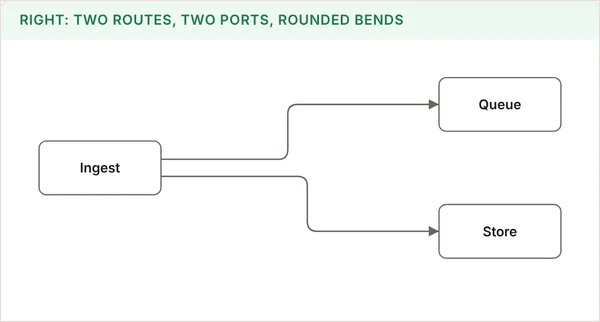
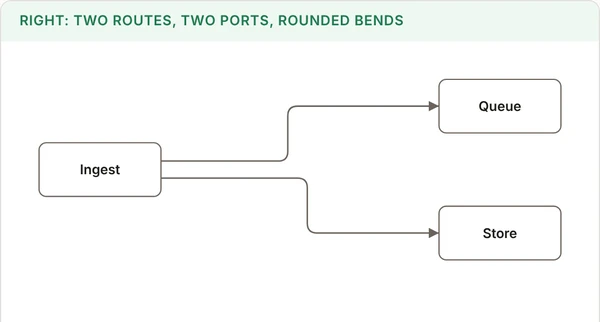
docs: sync counts and listings for diagrams (94 rules, ten checks, thirteen skills), published-link check, reference index page, M3 sample anchored to its button

diff --git a/docs/index.html b/docs/index.html
@@ -5,11 +5,11 @@
 <meta name="viewport" content="width=device-width, initial-scale=1">
 <meta name="color-scheme" content="light dark">
 <title>kz-skills: UI rules for AI coding agents, with checks that measure them</title>
-<meta name="description" content="Stack-neutral UI/UX rules for AI coding agents, with browser checks that measure them: 57 UI rules, 6 motion rules, 21 chart rules and 16 principles in twelve installable skills. Live wrong/right examples for every rule.">
+<meta name="description" content="Stack-neutral UI/UX rules for AI coding agents, with browser checks that measure them: 57 UI rules, 6 motion rules, 21 chart rules, 10 diagram rules and 16 principles in thirteen installable skills. Live wrong/right examples for every rule.">
 <link rel="canonical" href="https://kz-95.github.io/kz-skills/">
 <meta property="og:type" content="website">
 <meta property="og:title" content="kz-skills: UI rules for AI coding agents, with checks that measure them">
-<meta property="og:description" content="57 UI rules, 6 motion rules, 21 chart rules and 16 principles for AI coding agents, each with the failure it prevents and a browser check that catches it.">
+<meta property="og:description" content="57 UI rules, 6 motion rules, 21 chart rules, 10 diagram rules and 16 principles for AI coding agents, each with the failure it prevents and a browser check that catches it.">
 <meta property="og:url" content="https://kz-95.github.io/kz-skills/">
 <meta property="og:image" content="https://kz-95.github.io/kz-skills/assets/carousel-poster.png">
 <meta property="og:image:alt" content="Four UI rules shown wrong, then right: a filter panel, a shape-following focus ring, a label contrast decision, and a hover halo.">
@@ -62,11 +62,11 @@ footer{margin-top:var(--s6);color:var(--muted);font-size:14px}
 <body>
 <main>
   <h1>kz-skills: UI rules for AI coding agents, with checks that measure them</h1>
-  <p class="lede">Stack-neutral UI/UX rules that tell an AI agent what any interface must do, what breaks when it does not, and a browser check that fails it. 57 UI rules, 6 motion rules, 21 chart rules and 16 principles, in twelve installable skills.</p>
+  <p class="lede">Stack-neutral UI/UX rules that tell an AI agent what any interface must do, what breaks when it does not, and a browser check that fails it. 57 UI rules, 6 motion rules, 21 chart rules, 10 diagram rules and 16 principles, in thirteen installable skills, with ten browser checks.</p>
 
   <div class="cta">
     <a class="primary" href="reference/ui-rules-visual.html">See every rule, live</a>
-    <a href="https://github.com/kz-95/kz-skills#quick-start">Install</a>
+    <a href="https://github.com/kz-95/kz-skills#install">Install</a>
     <a href="https://github.com/kz-95/kz-skills">GitHub</a>
   </div>
 
@@ -78,11 +78,12 @@ footer{margin-top:var(--s6);color:var(--muted);font-size:14px}
       <tr><td>A focus ring that is a rectangle round a curved chart wedge</td><td><code>C5</code></td><td><code>layout-audit.js</code></td></tr>
       <tr><td>A search field that re-renders on every keystroke, closing the phone keyboard</td><td><code>F8</code></td><td><code>typing-check.js</code></td></tr>
       <tr><td>A label that is dark on dark, 1.04:1, in the dark theme only</td><td><code>Y2</code></td><td>measured in both themes</td></tr>
+      <tr><td>A diagram label sitting on its own line, so the line strikes through the word</td><td><code>G6</code></td><td><code>diagram-check.js</code></td></tr>
     </tbody>
   </table>
 
   <h2>Where to go</h2>
-  <p><a href="reference/ui-rules-visual.html">The live reference</a>: a wrong and a right sample for each rule. <a href="https://github.com/kz-95/kz-skills/blob/main/docs/rule-index.md">All 84 rules</a> on one page. <a href="https://github.com/kz-95/kz-skills/blob/main/docs/install.md">Install guide</a> for Claude Code, GPT, Codex and Cursor. <a href="https://github.com/kz-95/kz-skills/blob/main/llms.txt">llms.txt</a> for crawlers.</p>
+  <p><a href="reference/ui-rules-visual.html">The live reference</a>: a wrong and a right sample for each rule. <a href="https://github.com/kz-95/kz-skills/blob/main/docs/rule-index.md">All 94 rules</a> on one page. <a href="https://github.com/kz-95/kz-skills/blob/main/docs/install.md">Install guide</a> for Claude Code, GPT, Codex and Cursor. <a href="https://github.com/kz-95/kz-skills/blob/main/llms.txt">llms.txt</a> for crawlers.</p>
 
   <footer>Apache-2.0 with the Commons Clause: free to use, change and use commercially; not for sale. Rule IDs are stable and never renumbered.</footer>
 </main>

diff --git a/docs/reference/ui-rules-visual.html b/docs/reference/ui-rules-visual.html
@@ -9,11 +9,11 @@
 <meta name="theme-color" content="#fbfaf9" media="(prefers-color-scheme: light)">
 <meta name="theme-color" content="#16140f" media="(prefers-color-scheme: dark)">
 <title>UI rules for AI agents, seen: live wrong/right examples | kz-skills</title>
-<meta name="description" content="Live wrong/right examples for 56 stack-neutral UI rules and 21 chart rules for AI coding agents: tables, filters, forms, charts, overlays, motion. Every rule is demonstrated and checked in the browser.">
+<meta name="description" content="Live wrong/right examples for 57 stack-neutral UI rules, 6 motion rules, 21 chart rules and 10 diagram rules for AI coding agents: tables, filters, forms, charts, overlays, motion, diagrams. Every rule is demonstrated and checked in the browser.">
 <link rel="canonical" href="https://kz-95.github.io/kz-skills/reference/ui-rules-visual.html">
 <meta property="og:type" content="website">
 <meta property="og:title" content="UI rules for AI agents, seen: live wrong/right examples">
-<meta property="og:description" content="Live wrong/right examples for 56 stack-neutral UI rules and 21 chart rules for AI coding agents: tables, filters, forms, charts, overlays, motion. Every rule is demonstrated and checked in the browser.">
+<meta property="og:description" content="Live wrong/right examples for 57 stack-neutral UI rules, 6 motion rules, 21 chart rules and 10 diagram rules for AI coding agents: tables, filters, forms, charts, overlays, motion, diagrams. Every rule is demonstrated and checked in the browser.">
 <meta property="og:url" content="https://kz-95.github.io/kz-skills/reference/ui-rules-visual.html">
 <meta property="og:image" content="https://kz-95.github.io/kz-skills/assets/carousel-poster.png">
 <meta name="twitter:card" content="summary_large_image">
@@ -1160,7 +1160,9 @@ tbody tr{transition:background var(--mo-state) var(--mo-ease)}
 .mo-pal-bad{transform:translateY(-12px) scale(.9);
   transition:opacity 400ms ease-in-out,transform 400ms ease-in-out,visibility 0s 400ms}
 .mo-pal-bad[data-open="1"]{transition:opacity 400ms ease-in-out,transform 400ms ease-in-out}
-.mo-pop{position:absolute;left:0;top:44px;width:200px;border:1px solid var(--line);border-radius:var(--r);
+/* the menu hangs from its own button, 4px under it, left edges aligned, at any button height */
+.mo-anchor{position:relative}
+.mo-pop{position:absolute;left:0;top:calc(100% + 4px);width:200px;border:1px solid var(--line);border-radius:var(--r);
   background:var(--surface);box-shadow:0 8px 24px rgba(0,0,0,.12);padding:var(--s2) var(--s3);font-size:13px;
   visibility:hidden;opacity:0}
 .mo-pop[data-open="1"]{visibility:visible;opacity:1;transform:none}
@@ -2939,8 +2941,10 @@ The rules live in <code>motion-rules.md</code>; M1 is shown with Y3 above.</p>
     <div class="demo wrong" data-motion-check="skip">
       <div class="tag">Wrong: swells out of a point in its own middle</div>
       <div class="body mo-stage">
-        <button type="button" class="btn" id="m3BadBtn" aria-expanded="false">Options</button>
-        <div class="mo-pop mo-pop-bad" id="m3BadPop" role="menu" aria-label="Options">Rename<br>Duplicate<br>Archive</div>
+        <div class="mo-anchor">
+          <button type="button" class="btn" id="m3BadBtn" aria-expanded="false">Options</button>
+          <div class="mo-pop mo-pop-bad" id="m3BadPop" role="menu" aria-label="Options">Rename<br>Duplicate<br>Archive</div>
+        </div>
       </div>
       <p class="note">It starts at nothing and grows from its centre, so for a moment it is a dot
       floating away from the button that asked for it.</p>
@@ -2948,8 +2952,10 @@ The rules live in <code>motion-rules.md</code>; M1 is shown with Y3 above.</p>
     <div class="demo right">
       <div class="tag">Right: starts nearly full size, from the button</div>
       <div class="body mo-stage">
-        <button type="button" class="btn" id="m3GoodBtn" aria-expanded="false">Options</button>
-        <div class="mo-pop mo-pop-good" id="m3GoodPop" role="menu" aria-label="Options">Rename<br>Duplicate<br>Archive</div>
+        <div class="mo-anchor">
+          <button type="button" class="btn" id="m3GoodBtn" aria-expanded="false">Options</button>
+          <div class="mo-pop mo-pop-good" id="m3GoodPop" role="menu" aria-label="Options">Rename<br>Duplicate<br>Archive</div>
+        </div>
       </div>
       <p class="note">Scale 0.96 and opacity 0, origin at the top left where the button is, 180ms
       in and 120ms out.</p>

diff --git a/docs/reference/rules-check.js b/docs/reference/rules-check.js
@@ -580,7 +580,9 @@
     tap(btn);
     var done = open() && open().querySelector('.fdone');
     var minH = matchMedia('(hover: none), (pointer: coarse)').matches ? 44 : 24;      /* the rule's own figures */
-    ok('N2', !!done && done.getBoundingClientRect().height >= minH, 'the panel has no visible Done button of at least ' + minH + 'px');
+    /* offsetHeight, not the client rect: the panel has just opened and is still scaling in from 0.985,
+       so its rect reads a 44px button as 43.3 */
+    ok('N2', !!done && done.offsetHeight >= minH && done.getClientRects().length > 0, 'the panel has no visible Done button of at least ' + minH + 'px');
     if (done) { tap(done); }
     ok('N2', !open(), 'the Done button did not close the panel');
     ok('N2', document.activeElement === btn, 'Done did not return focus to the trigger that opened the panel');
@@ -854,6 +856,11 @@
     ok('M3', scaleOf(good) >= 0.9 && scaleOf(good) < 1, 'the right menu starts at scale ' + scaleOf(good).toFixed(2) + ', not 0.9-0.97');
     ok('M3', /^0px 0px/.test(cs(good).transformOrigin), 'the right menu does not grow from its top left: ' + cs(good).transformOrigin);
     ok('M3 (wrong sample)', scaleOf(badp) < 0.05, 'the wrong menu no longer starts at scale(0)');
+    /* the right menu opens on the button that opened it: left edges aligned, top just under it. The
+       origin is the top left, so the closed menu's box already sits where the open one will. */
+    var gb = $('m3GoodBtn').getBoundingClientRect(), gp = good.getBoundingClientRect();
+    ok('M3', Math.abs(gp.left - gb.left) <= 2 && gp.top >= gb.bottom - 1 && gp.top - gb.bottom <= 12,
+       'the right menu does not open on its button: ' + Math.round(gp.left - gb.left) + 'px across, ' + Math.round(gp.top - gb.bottom) + 'px below it');
 
     /* M4: the property list and the curve */
     var g = cs($('m4Good')), b = cs($('m4Bad'));

diff --git a/docs/reference/index.html b/docs/reference/index.html
@@ -1,0 +1,20 @@
+<!doctype html>
+<html lang="en">
+<head>
+<meta charset="utf-8">
+<meta name="viewport" content="width=device-width, initial-scale=1">
+<meta name="color-scheme" content="light dark">
+<title>UI Rules, Seen</title>
+<meta http-equiv="refresh" content="0; url=ui-rules-visual.html">
+<link rel="canonical" href="https://kz-95.github.io/kz-skills/reference/ui-rules-visual.html">
+<style>
+:root{--bg:#fbfaf9;--fg:#1c1a17;--link:#0b57b0}
+@media (prefers-color-scheme: dark){:root{--bg:#16140f;--fg:#ece9e4;--link:#8ab8ff}}
+body{margin:0;padding:24px 16px;background:var(--bg);color:var(--fg);font:16px/1.5 system-ui,-apple-system,"Segoe UI",sans-serif}
+a{color:var(--link)}
+</style>
+</head>
+<body>
+<p>Opening the reference page: <a href="ui-rules-visual.html">UI rules, seen - a wrong and a right sample for every rule</a>.</p>
+</body>
+</html>

diff --git a/skills/kz-uiuxrule/snippets/filter-table.html b/skills/kz-uiuxrule/snippets/filter-table.html
@@ -12,7 +12,7 @@
          Done. Ticking a value never closes it. A scroll moves it with its trigger rather than
          closing it, so a filter that shrinks the table cannot dismiss its own panel.
        - on touch the panel's search is not auto-focused, so the keyboard does not cover it
-     Checks it passes: all nine in kz-uicheck, at 1280px and 390px, light and dark.
+     Checks it passes: all ten in kz-uicheck, at 1280px and 390px, light and dark.
 
      YOUR COPY IS NOT CHECKED until you run this on it - "the snippet passes" says nothing about your edits,
      and no browser window is needed:

diff --git a/scripts/validate.py b/scripts/validate.py
@@ -10,6 +10,8 @@ Checks, each of which has caught a real defect in this project:
   3. no CRLF line endings in text files (.gitattributes enforces LF)
   4. docs/rule-index.md is up to date with the rule files
   5. the plugin and marketplace manifests parse and agree on the plugin name
+  6. every published link (https://kz-95.github.io/kz-skills/...) names a file under docs/,
+     and its #anchor, on an .html page, names an id that page has
 Exit status is 0 only when every check passes.
 """
 import io
@@ -141,9 +143,39 @@ try:
 except Exception as e:  # noqa: BLE001 - report any parse failure plainly
     fail("manifest problem: %s" % e)
 
+# 6. published links ------------------------------------------------------------------------------
+# GitHub Pages serves docs/ at this address, so a link to it is a link into docs/ that the
+# relative-link check above cannot see. A trailing / means index.html.
+PUB = re.compile(r"https://kz-95\.github\.io/kz-skills/([^\s\"'<>()\[\]`]*)")
+ID_ATTR = re.compile(r"""\bid\s*=\s*["']([^"']+)["']""")
+ids_cache = {}
+tracked = subprocess.run(["git", "ls-files"], cwd=ROOT, capture_output=True, text=True).stdout.splitlines()
+for rel in tracked:
+    if not rel.endswith((".md", ".txt", ".html", ".json")):
+        continue
+    src = os.path.join(ROOT, rel)
+    if not os.path.isfile(src):
+        continue
+    for n, line in enumerate(read(src).splitlines(), 1):
+        for m in PUB.finditer(line):
+            target = m.group(1).rstrip(".,;:")
+            path, _, anchor = target.partition("#")
+            path = path.split("?")[0]
+            if path == "" or path.endswith("/"):
+                path += "index.html"
+            local = os.path.normpath(os.path.join(ROOT, "docs", path))
+            if not os.path.isfile(local):
+                fail("%s:%d: published link to a page that does not exist -> %s" % (rel, n, m.group(0)))
+                continue
+            if anchor and local.endswith(".html"):
+                if local not in ids_cache:
+                    ids_cache[local] = set(ID_ATTR.findall(read(local)))
+                if anchor not in ids_cache[local]:
+                    fail("%s:%d: published link to an anchor the page does not have -> %s" % (rel, n, m.group(0)))
+
 if problems:
     print("%d problem(s):" % len(problems))
     for p in problems:
         print("  - " + p)
     sys.exit(1)
-print("ok: %d skills, links resolve, LF endings, rule index current, manifests agree" % found)
+print("ok: %d skills, links resolve, LF endings, rule index current, manifests agree, published links resolve" % found)

diff --git a/CHANGELOG.md b/CHANGELOG.md
@@ -5,6 +5,13 @@ All notable changes to this repository. Format follows [Keep a Changelog](https:
 ## [Unreleased]
 
 ### Added
+- **Diagram rules `G1`-`G10`, in their own file** (`kz-uiuxrule`: 94 rules, 57 UI, 6 motion, 21 chart, 10 diagram). `rules/diagram-rules.md` is the one copy: the form comes from the question (G1), a budget of nine boxes, twelve lines and two emphasised things with a fixed cut order (G2), square routes that leave a box from an edge (G3), lines never stacked or sharing a port (G4), never behind a box (G5), a label beside its line on an opaque plate (G6), a key below the drawing (G7), a phone scrolls the drawing instead of shrinking it (G8), an accessible name (G9) and emphasis on one or two things (G10). Adapted in part from [cathrynlavery/diagram-design](https://github.com/cathrynlavery/diagram-design) (MIT). `rules/INDEX.md` routes diagram words to section G.
+- **`diagram-check.js`** (`kz-uicheck`, now ten checks, and in `run-checks.py`'s default set): `BUDGET`, `DIAGONAL`, `CORNER`, `STACKED`, `SHARED PORT`, `BEHIND BOX`, `LABEL ON LINE`, `LABEL GAP`, `PLATE UNDER BOX`, `KEY INSIDE`, `SHRUNK`, `PAGE SCROLL`, `CLIPPED`, `NO NAME`, `DUP ID`, `EMPHASIS`, and a `TRIVIAL` advisory. It measures the diagram as drawn, after CSS and transforms, in the diagram's own units. Measured clean on the reference page and shown failing on a fixture for each code. Run on 207 diagram-design examples, it reports real defects by that project's own rules, and the false positives it raised there were fixed.
+- **Section G on the reference page**: wrong/right samples for the diagram rules (`#g1-earn`, `#g3-lines`, `#g5-behind`, `#g6-labels`, `#g7-key`, `#g8-phone`, `#g2-budget`), with `rules-check.js` asserting that each wrong half still fails.
+- **`kz-diagramrule`**, a lane that reads only `diagram-rules.md` and `diagram-check.js`, for work that is only a diagram. The router, `docs/how-they-fit.md`, `llms.txt` and `AGENTS.md` route to it.
+- **README rewritten.** A hero GIF (a diagram drawn wrong, `diagram-check.js` finding each fault, the diagram redrawn clean) made with Remotion in `scripts/hero/`; a gallery of one right-hand sample per category, cropped from the live reference page; a "what loads when" table; "it's working if"; and "when not to use it".
+- **`docs/reference/index.html`**, a small page that forwards to `ui-rules-visual.html`, so the published `reference/` address no longer returns 404.
+- **Published-link check in `scripts/validate.py`.** Every `https://kz-95.github.io/kz-skills/<path>[#anchor]` link in a tracked `.md`, `.txt`, `.html` or `.json` file must name a file under `docs/` (a trailing `/` means `index.html`), and an anchor on an `.html` target must be an `id` in that file. Each broken link fails with its file and line.
 - **`scripts/check-branch.py`, and rule 33 made explicit about hosts.** A branch name holds the work only: never a tool, model, agent, host or session name or id (`claude/...`, `codex/...`, `ai-...`, a generated word salad such as `modest-mccarthy-cgaoyu`). A host that assigns or instructs a generated branch is a default, not the owner's instruction, so it does not outrank the rule; the work moves to a correctly named branch before it is pushed. The check fails a missing `feat/`, `fix/`, `docs/` or `chore/` prefix, a non-kebab-case name, a tool name and a generated id, and CI runs it on every pull request. Shown failing on seven bad names (including the one this change was made on) and passing on four good ones.
 - **Star history chart in the README.**
 - **Motion rules in their own file, and `kz-motionrule`** (`kz-uiuxrule` 2.3.0: 57 UI rules, 6 motion rules). `rules/motion-rules.md` is now the one copy of the M rules: M1 moved there unchanged with the motion figures from Appendix Q, and five new rules join it - M2 (how often it is seen decides whether it moves), M3 (nothing enters from `scale(0)`; an anchored panel grows from its trigger), M4 (never `transition: all`, never ease-in), M5 (a press answers before the action does), M6 (once one tooltip is open, the next opens at once) - with named easing curves, stagger, press/release asymmetry, gesture and performance notes. `kz-motionrule` is a lane that reads only that file and the check, for work that only moves. The reference page gains section M with wrong/right samples for M2-M6, each wrong half asserted in `rules-check.js`.
@@ -35,6 +42,10 @@ All notable changes to this repository. Format follows [Keep a Changelog](https:
 - **`kz-uiuxrule` treats generated pages as UI**: its description names reports, progress pages, exports and anything a script writes; its verify step gives the `run-checks.py` command; the filter-table snippet carries that command at the top, where an agent adapting it will see it. Measured with five agent runs on the same brief: bare filter boxes in the first two, clean pages from the third, and the agent ran the checks itself only once the command sat in the snippet.
 
 ### Fixed
+- The README claimed 3 console checks; `kz-uicheck` has ten.
+- The chart carousel's alt text in the README now matches what the GIF shows.
+- **The M3 sample's right-hand menu did not open on its button**, which is what M3 asks: it was placed from the sample's padding edge, 16px left of the Options button and over its bottom edge (by 4px at 1400px, by 16px at 375px). Both menus now hang from a wrapper around their button, left edges aligned and 4px below it, and `rules-check.js` asserts that the right menu does; the new assertion failed on the old page. The README gallery's motion and diagram pictures were re-shot from the current page.
+- **`rules-check.js` read the N2 Done button while its panel was still scaling in**, so at 375px with touch a 44px button measured 43.3px and failed. It now reads the untransformed height, and still fails on a Done button under 44px.
 - The reference page's own button tooltips waited 400ms on every hover (M6); they now open at once while one is showing.
 - The reference page honoured reduced motion with `transition: none` on everything, deleting the feedback (M1); it now keeps fades and colour changes and drops the travel.
 - `snippets/filter-table.html` sort and filter buttons had no pressed state (M5).

diff --git a/docs/README.md b/docs/README.md
@@ -5,12 +5,12 @@ One row per document: what it covers, what kind of document it is, and **when to
 | Document | Kind | Covers | Reach for it when |
 |---|---|---|---|
 | [install.md](install.md) | Guide | Installing in Claude Code (plugin and by hand) and in other agents; wiring the purpose hook; fixing "it does not show up" | You are setting this up, or a skill is not appearing as a command |
-| [how-they-fit.md](how-they-fit.md) | Guide | The twelve skills, what each is for, and how a request is routed between them | You are not sure which skill a task needs |
+| [how-they-fit.md](how-they-fit.md) | Guide | The thirteen skills, what each is for, and how a request is routed between them | You are not sure which skill a task needs |
 | [with-impeccable.md](with-impeccable.md) | Guide | Using these skills alongside impeccable (a style skill): who decides what, where they agree, the three places they can pull against each other | You want a style from impeccable and correct behaviour from here |
 | [rule-index.md](rule-index.md) | Reference | Every rule, one line each, by category, with links to its live samples. **Generated** by `scripts/build-index.py` | You want to scan all rules, or find one by its statement |
-| [reference/ui-rules-visual.html](reference/ui-rules-visual.html) | Reference | A wrong and a right sample for every rule, live | You want to see a rule fail and pass |
+| [reference/ui-rules-visual.html](reference/ui-rules-visual.html) | Reference | A wrong and a right sample for every rule, live. `reference/index.html` forwards to it, so the folder's published address works | You want to see a rule fail and pass |
 | [reference/README.md](reference/README.md) | Guide | The reference page and the two checks bound to it | You are running the checks against the reference page |
-| [assets/](assets/) | Reference | `carousel-de-ai.gif`, `carousel-improvements.gif`, `carousel-charts.gif` (the README pictures: fifteen common agent mistakes, wrong then right, in three short loops, one per category) and `carousel-poster.png` (the social preview). **Generated** from the live reference page by `scripts/make-carousel.py` | A rule's sample changed and the picture must follow; run the script |
+| [assets/](assets/) | Reference | `hero.gif` (the README's opening picture: a diagram drawn wrong, `diagram-check.js` finding each fault, the diagram redrawn clean; **made** with Remotion from `scripts/hero/`), `gallery/` (the README gallery: one right-hand sample per category, cropped from the live reference page as 600x322 WebP), `carousel-de-ai.gif`, `carousel-improvements.gif`, `carousel-charts.gif` (fifteen common agent mistakes, wrong then right, in three short loops, one per category) and `carousel-poster.png` (the social preview). The carousels and poster are **generated** from the live reference page by `scripts/make-carousel.py` | A rule's sample changed and the picture must follow; run the script, or re-shoot the gallery image for that sample |
 | [history/SKILL-REVIEW.md](history/SKILL-REVIEW.md) | Record | The review that produced the current `kz-crew021` | You want to know why the crew workflow reads the way it does |
 | [history/diagrams/](history/diagrams/) | Record | The workflow diagram `kz-crew021` was built from | You want the shape of the workflow at a glance |
 
@@ -22,7 +22,9 @@ They live inside the skills, in one place each, so a copy here could not drift:
 |---|---|
 | [`skills/kz-uiuxrule/rules/INDEX.md`](../skills/kz-uiuxrule/rules/INDEX.md) | The keyword router: task words to the sections that apply. **Start here for any UI task.** |
 | [`skills/kz-uiuxrule/rules/ui-rules.md`](../skills/kz-uiuxrule/rules/ui-rules.md) | The UI rules by category, with appendices and the 26 lessons |
+| [`skills/kz-uiuxrule/rules/motion-rules.md`](../skills/kz-uiuxrule/rules/motion-rules.md) | The 6 motion rules |
 | [`skills/kz-uiuxrule/rules/chart-rules.md`](../skills/kz-uiuxrule/rules/chart-rules.md) | The 21 chart rules |
+| [`skills/kz-uiuxrule/rules/diagram-rules.md`](../skills/kz-uiuxrule/rules/diagram-rules.md) | The 10 diagram rules |
 | [`skills/kz-uiuxrule/rules/design-principles.md`](../skills/kz-uiuxrule/rules/design-principles.md) | The 16 principles behind the rules |
 | [`skills/kz-engrules/rules/engineering-rules.md`](../skills/kz-engrules/rules/engineering-rules.md) | The engineering rules under every task |
 

diff --git a/docs/how-they-fit.md b/docs/how-they-fit.md
@@ -1,6 +1,6 @@
 # How the skills fit together
 
-Twelve skills and one child. Each can be called on its own. `kz-skill` is the entry point for when a request spans several, or when it is not obvious which applies.
+Thirteen skills and one child. Each can be called on its own. `kz-skill` is the entry point for when a request spans several, or when it is not obvious which applies.
 
 ```
 kz-engrules      the floor: applies to every task, UI or not
@@ -8,6 +8,7 @@ kz-engrules      the floor: applies to every task, UI or not
   kz-flashrule   the most critical rules of all of them, on one page, for a fast check
   kz-uiuxrule    adds the interface rules on top of it
     kz-motionrule  its motion rules alone, for work that only moves
+    kz-diagramrule its diagram rules alone, for work that is only a diagram
     kz-uicheck   the instruments its verification rules tell you to run
 kz-askcard       how any of them asks the user something
 kz-judge         the wording judgements a script cannot make
@@ -22,11 +23,12 @@ kz-crew021       the workflow that dispatches the rest across a crew
 |---|---|---|
 | Any code task at all | `kz-engrules` first | It is short and nothing scopes it out |
 | A typo, a wording or style change, a doc line, a one-line bug | `kz-fastfix` | A size test, then the change made directly and checked once; no crew, no loop |
-| "Quick check before I call this done" | `kz-flashrule` | The 40 rules that break worst when missed, one read, each with its fastest check |
+| "Quick check before I call this done" | `kz-flashrule` | The 42 rules that break worst when missed, one read, each with its fastest check |
 | Build, change or review a screen, table, form, chart, overlay | `kz-uiuxrule` | The rules, in four modes |
 | "Look at this screenshot and tell me what is wrong" | `ui-glance` (child of `kz-uiuxrule`) | One read, one pass, three to six findings |
 | An animation, a transition, a press effect, nothing else | `kz-motionrule` | The six motion rules and their check, without the rest of the corpus |
-| "Is this UI done?" | `kz-uicheck` | Measures layout, tables and typing instead of judging them |
+| An architecture diagram, a flowchart, a sequence, a state machine, nothing else | `kz-diagramrule` | The ten diagram rules and their check, without the rest of the corpus |
+| "Is this UI done?" | `kz-uicheck` | Ten checks that measure layout, tables, typing, forms, motion and diagrams instead of judging them |
 | A whole project, idea to maintenance | `kz-crew021` | Phases, scope relay, a proof of concept before any fan-out, a budget |
 | A mistake noticed and fixed, which should not recur | `kz-reflect` | Records it, classifies it into one of seven outcomes, proposes the change; a person approves |
 | One defect, already fixed once, still broken | `kz-loopfix` | Critic and fixer to agreement, then a gate rules on whether the agreement is true |

diff --git a/AGENTS.md b/AGENTS.md
@@ -4,12 +4,12 @@ Instructions for any AI agent that **uses** or **works in** this repository: Cla
 
 ## What this repository is
 
-Twelve skills, each a folder under `skills/` with a `SKILL.md`. The core is `kz-uiuxrule`: stack-neutral, style-neutral UI rules (57 UI rules, 6 motion rules, 21 chart rules, 16 principles), each with the failure it prevents and a browser check that catches it. `kz-uicheck` holds those checks as paste-in console scripts.
+Thirteen skills, each a folder under `skills/` with a `SKILL.md`. The core is `kz-uiuxrule`: stack-neutral, style-neutral UI rules (57 UI rules, 6 motion rules, 21 chart rules, 10 diagram rules, 16 principles), each with the failure it prevents and a browser check that catches it. `kz-uicheck` holds those checks as paste-in console scripts.
 
 ## Using the skills when you are not Claude Code
 
 1. **Read `skills/kz-skill/SKILL.md` first.** It is a router. It names which skill fits the task and says what to read, so you never need the whole set.
-2. **For any UI work, read `skills/kz-uiuxrule/rules/INDEX.md`.** Find the row whose keywords match the task (`table`, `form`, `chart`, `dark mode`, `back button`). It names the two or three sections that apply. Read those, and nothing else unless the work touches a second category. Work that only moves (an animation, a transition, a press effect) can read `skills/kz-uiuxrule/rules/motion-rules.md` alone, which is what `skills/kz-motionrule/` does.
+2. **For any UI work, read `skills/kz-uiuxrule/rules/INDEX.md`.** Find the row whose keywords match the task (`table`, `form`, `chart`, `dark mode`, `back button`). It names the two or three sections that apply. Read those, and nothing else unless the work touches a second category. Work that only moves (an animation, a transition, a press effect) can read `skills/kz-uiuxrule/rules/motion-rules.md` alone, which is what `skills/kz-motionrule/` does. Work that is only a diagram (boxes, lines and labels drawn as SVG) can read `skills/kz-uiuxrule/rules/diagram-rules.md` alone, which is what `skills/kz-diagramrule/` does.
 3. **Quote rule IDs** (`T1`, `F8`, `C5`) when you report a finding or justify a choice. They are stable.
 4. **Before saying UI work is done, run the checks** in `skills/kz-uicheck/checks/`. Paste each into the browser console of the page, one at a time, on a settled page: at a wide width, at a narrow one, and at 375px with touch emulation. A finding without a measurement behind it is not a finding.
 5. **Ask what the work is for before doing it**, as one card with three to five decisions, one marked recommended and a custom option always open. The format is in `skills/kz-askcard/SKILL.md`.

diff --git a/docs/install.md b/docs/install.md
@@ -1,6 +1,6 @@
 # Install
 
-Twelve skills, each a folder with a `SKILL.md`. Install all of them: `kz-uiuxrule` links to `kz-engrules`, `kz-askcard` and `kz-uicheck` as siblings, and `kz-crew021` calls most of the others.
+Thirteen skills, each a folder with a `SKILL.md`. Install all of them: `kz-uiuxrule` links to `kz-engrules`, `kz-askcard` and `kz-uicheck` as siblings, and `kz-crew021` calls most of the others.
 
 ## Claude Code, as a plugin
 
@@ -44,7 +44,7 @@ The skills are plain Markdown. There is no build step.
 
 ## It does not show up as a command
 
-The usual cause is **nesting**. Claude Code registers `skills/<name>/SKILL.md` and nothing deeper. If a skill sits inside another skill's folder, it is read by its parent but is not a command. Each of the ten must be a direct child of your skills folder:
+The usual cause is **nesting**. Claude Code registers `skills/<name>/SKILL.md` and nothing deeper. If a skill sits inside another skill's folder, it is read by its parent but is not a command. Each of the thirteen must be a direct child of your skills folder:
 
 ```
 ~/.claude/skills/

diff --git a/docs/reference/README.md b/docs/reference/README.md
@@ -13,7 +13,7 @@ any other page they would report clean and mean nothing:
 - `state-check.js` - drives every table to 0, 1 and all rows, sorts every column, and checks
   chart, count, totals and legend still agree.
 
-The nine checks that work on **any** page are in `../../skills/kz-uicheck/checks/`.
+The ten checks that work on **any** page are in `../../skills/kz-uicheck/checks/`.
 
 To run them against this page, serve the folder (`python -m http.server` in `docs/`), open
 `reference/ui-rules-visual.html`, and paste each file into the console one at a time, on a settled
